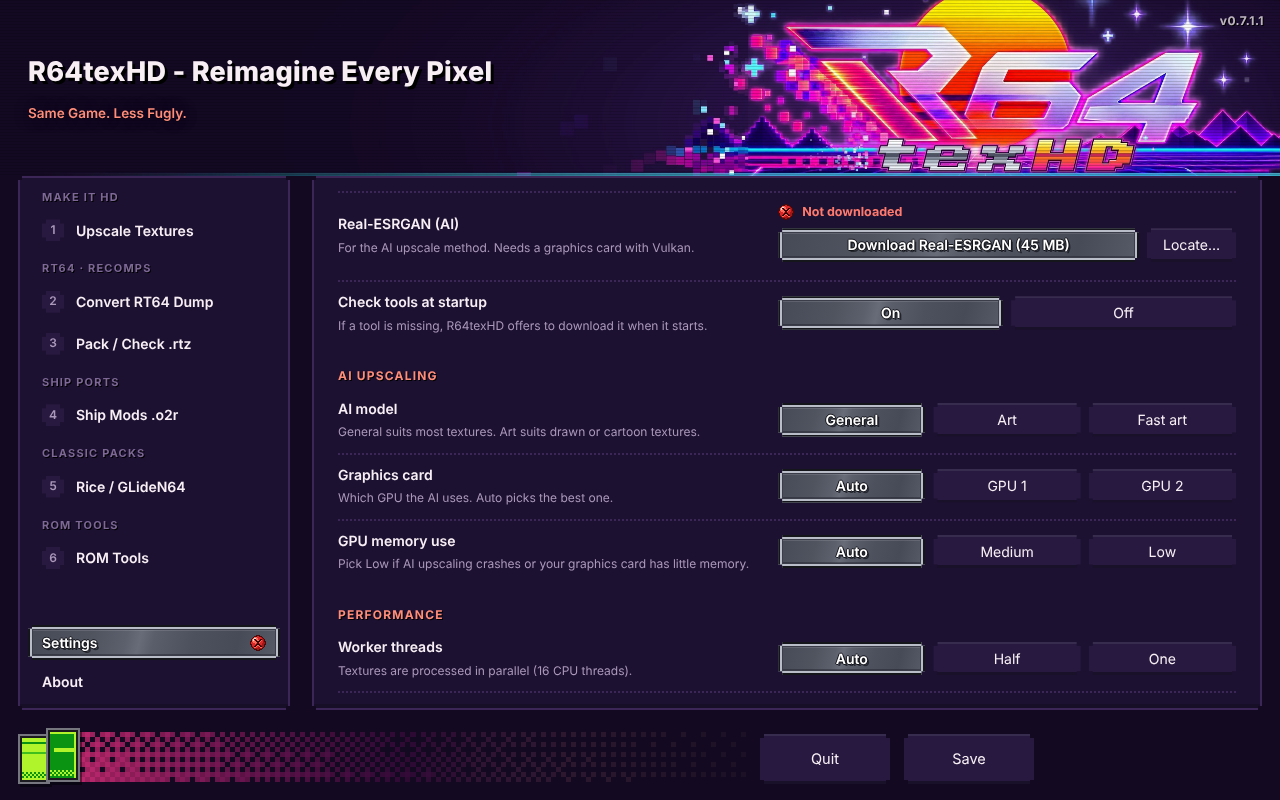
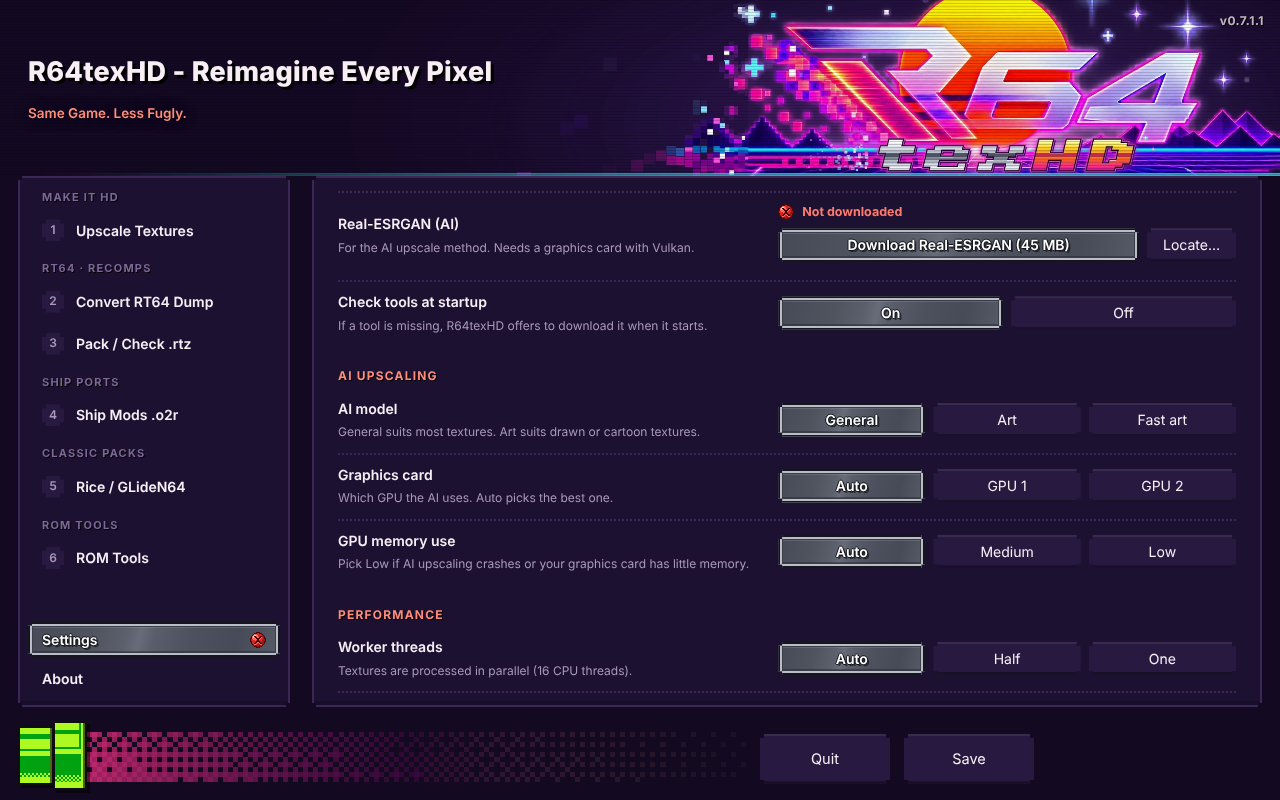
Welcome button: the supplied pipe art, crisp, with an 8-bit shine
- Redrawn pixel for pixel at its native 69 x 69 from the supplied image (bands
  measured from it, clean 2 px checkers), shown at 1:1 with pixelated scaling,
  so it stays sharp at any Windows display scaling. Replaces the SVG icon.
- Hover: lifts 3 px and a stepped glint sweeps across, clipped to the pipe's
  outline (a polygon, so it works from local files). Glows white on Welcome.

Claude-Session: https://claude.ai/code/session_01MGmgufkY67hNwJ4dKZUjyJ

Changed region(s): [[0.0, 0.7812, 0.9688, 1.0]]

diff --git a/app/ui/index.html b/app/ui/index.html
@@ -145,11 +145,19 @@ footer { display: flex; align-items: flex-end; gap: 14px; padding: 14px 18px 16p
 .pixfade { flex: 1; align-self: stretch; min-width: 0; position: relative; }
 /* 8-bit pixel gradient: chunky blocks, magenta to orange, dissolving away to the right (drawn in fillPixelFade). */
 .pixfade canvas { position: absolute; left: 0; bottom: 2px; width: 100%; height: 50px; image-rendering: pixelated; }
-.home-btn { all: unset; flex: none; width: 62px; height: 56px; cursor: pointer; margin-right: -14px; align-self: flex-end; position: relative; z-index: 1;
-  filter: drop-shadow(2px 3px 0 rgba(0,0,0,.45)); transition: transform .08s steps(2); }
-.home-btn svg { display: block; width: 100%; height: 100%; }
-.home-btn:hover { transform: translateY(-2px); filter: drop-shadow(2px 5px 0 rgba(0,0,0,.45)) brightness(1.12); }
+.home-btn { all: unset; flex: none; width: 69px; height: 69px; cursor: pointer; margin: 0 -14px -6px 0; align-self: flex-end; position: relative; z-index: 1;
+  filter: drop-shadow(3px 3px 0 rgba(0,0,0,.5)); transition: transform .1s steps(2); }
+.home-btn img { display: block; width: 69px; height: 69px; image-rendering: pixelated; }
+/* 8-bit shine: a stepped band of light sweeps across the pipe on hover, cut to the pipe's own shape. */
+.home-btn::after { content: ''; position: absolute; inset: 0; pointer-events: none; opacity: 0;
+  background: linear-gradient(105deg, transparent 0 42%, rgba(255,255,255,.42) 42% 46%, transparent 46% 49%, rgba(255,255,255,.24) 49% 51%, transparent 51%) no-repeat;
+  background-size: 300% 100%; background-position: 100% 0;
+  clip-path: polygon(2px 7px, 35px 7px, 35px 2px, 67px 2px, 67px 67px, 35px 67px, 35px 62px, 2px 62px); }
+.home-btn:hover { transform: translateY(-3px); filter: drop-shadow(3px 6px 0 rgba(0,0,0,.45)) brightness(1.08); }
+.home-btn:hover::after { opacity: 1; animation: pipe-shine .6s steps(8) 1 forwards; }
+@keyframes pipe-shine { from { background-position: 100% 0; } to { background-position: 0 0; } }
 .home-btn.on { filter: drop-shadow(0 0 1px #fff) drop-shadow(0 0 6px rgba(255,255,255,.75)); }
+@media (prefers-reduced-motion: reduce) { .home-btn:hover::after { animation: none; opacity: 0; } }
 .home-btn:focus-visible { outline: 2px solid var(--orange-hi); outline-offset: 3px; }
 /* The helper tools question: short and plain. */
 .ask-tools { min-width: 340px; }
@@ -517,7 +525,7 @@ nav button.active:hover, .seg button.on:hover, .btn.primary:hover, .go:not(.canc
     <section class="page" id="page"></section>
   </main>
   <footer>
-    <button class="home-btn" id="home" title="Welcome" aria-label="Welcome"></button>
+    <button class="home-btn" id="home" title="Welcome" aria-label="Welcome"><img src="home-pipe.png" alt="" draggable="false"></button>
     <div class="pixfade" aria-hidden="true"><canvas id="pixfade"></canvas></div>
     <button class="foot-btn" id="quit">Quit</button>
     <button class="foot-btn" id="save">Save</button>
@@ -1522,14 +1530,6 @@ window.addEventListener('resize', () => { if (page === 'upscale') drawPreview();
 // ---------------------------------------------------------------- footer: 8-bit pixel gradient
 // Square blocks in the header's colours (magenta -> violet -> orange) that thin out from left to
 // right with an ordered (Bayer) dither, like an old console fade. One canvas pixel = one block.
-// The Welcome button: two green slabs in pixel art (g grey rim, k outline, L lime, M green, D dark green).
-const HOME_ICON = ["..............ggggggggggggggggg", "..............gkkkkkkkkkkkkkkkg", "..............gkLLLLLLLLLLLLLkg", "gggggggggggggggkDDDDDDDDDDDDLkg", "gkkkkkkkkkkkkkgkDDDDDDDDDDDDLkg", "gkLLLLLLLLLLLLgkDDDDDDDDDDDDLkg", "gkLLLLLLLLLLLLgkDDDDDDDDDDDDLkg", "gkDDDDDDDDDDDDgkDDDDDDDDDDDDLkg", "gkLLLLLLLLLLLLgkDDDDDDDDDDDDLkg", "gkLLLLLLLLLLLLgkDDDDDDDDDDDDLkg", "gkLLLLLLLLLLLLgkDDLLLLLLLLLLLkg", "gkLLLLLLLLLLLLgkDDLLLLLLLLLLLkg", "gkMMMMMMMMMMMMgkDDDDDDDDDDDDLkg", "gkLLLLLLLLLLLLgkDDDDDDDDDDDDLkg", "gkLLLLLLLLLLLLgkDDDDDDDDDDDDLkg", "gkLLLLLLLLLLLLgkDDDDDDDDDDDDLkg", "gkLLLLLLLLLLLLgkDDDDDDDDDDDDLkg", "gkLLLLLLLLLLLLgkDDDDDDDDDDDDLkg", "gkLLLLLLLLLLLLgkDDDDDDDDDDDDLkg", "gkLLLLLLLLLLLLgkDDDDDDDDDDDDLkg", "gkLLLLLLLLLLLLgkDDDDDDDDDDDDLkg", "gkLLLLLLLLLLLLgkLDLDLDLDLDLDLkg", "gkDLDLDLDLDLDLgkDLDLDLDLDLDLLkg", "gkLDLDLDLDLDLDgkLDLDLDLDLDLDLkg", "gkDLDLDLDLDLDLgkDDDDDDDDDDDDLkg", "gkLLLLLLLLLLLLgkkkkkkkkkkkkkkkg", "gkkkkkkkkkkkkkggggggggggggggggg", "gggggggggggggggg..............."];
-function drawHomeIcon() {
-  const C = { g: '#76767f', k: '#1c1c20', L: '#b0f42c', M: '#40be1e', D: '#0a9212' };
-  let r = '';
-  HOME_ICON.forEach((row, y) => { for (let x = 0; x < row.length; x++) if (C[row[x]]) r += `<rect x="${x}" y="${y}" width="1.02" height="1.02" fill="${C[row[x]]}"/>`; });
-  $('#home').innerHTML = `<svg viewBox="0 0 ${HOME_ICON[0].length} ${HOME_ICON.length}" shape-rendering="crispEdges" aria-hidden="true">${r}</svg>`;
-}
 function fillPixelFade() {
   const c = $('#pixfade'); if (!c) return;
   const BLOCK = 5, w = Math.max(1, Math.floor(c.clientWidth / BLOCK)), h = Math.max(1, Math.floor(c.clientHeight / BLOCK));
@@ -1568,7 +1568,6 @@ setTimeout(() => showApp(), 4000);                  // never leave the app hidde
   setTimeout(askRomFolder, SHOW_APP_AT + 200);        // after the splash, so the dialog isn't hidden behind it
   nextHeaderPhrase();
   fillPixelFade();
-  drawHomeIcon();
   showSplash();
 })();
 </script>
